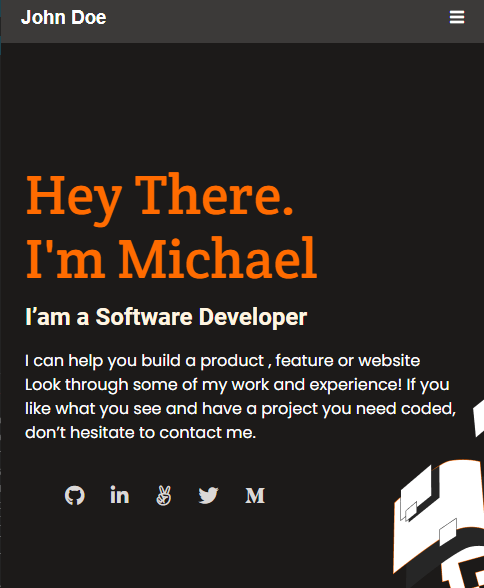
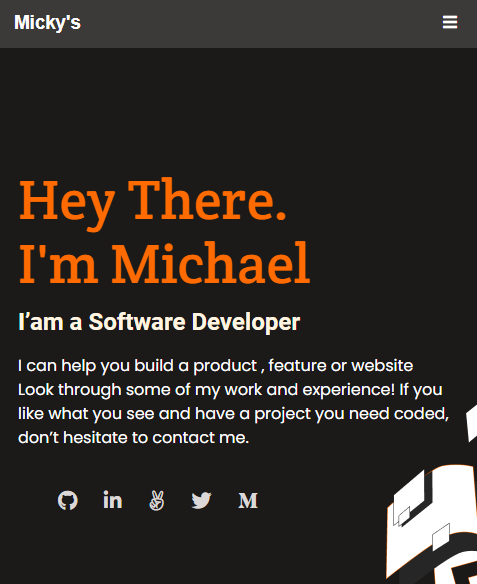
Little edit on readme and index.html file

diff --git a/index.html b/index.html
@@ -25,7 +25,7 @@
   </head>
   <body>
     <header class="toolbar">
-      <a href="#" class="logo"><h3>John Doe</h3></a>
+      <a href="#" class="logo"><h3>Micky's</h3></a>
       <nav><i class="fa fa-bars" aria-hidden="true"></i></nav>
     </header>
     <section class="intro">
